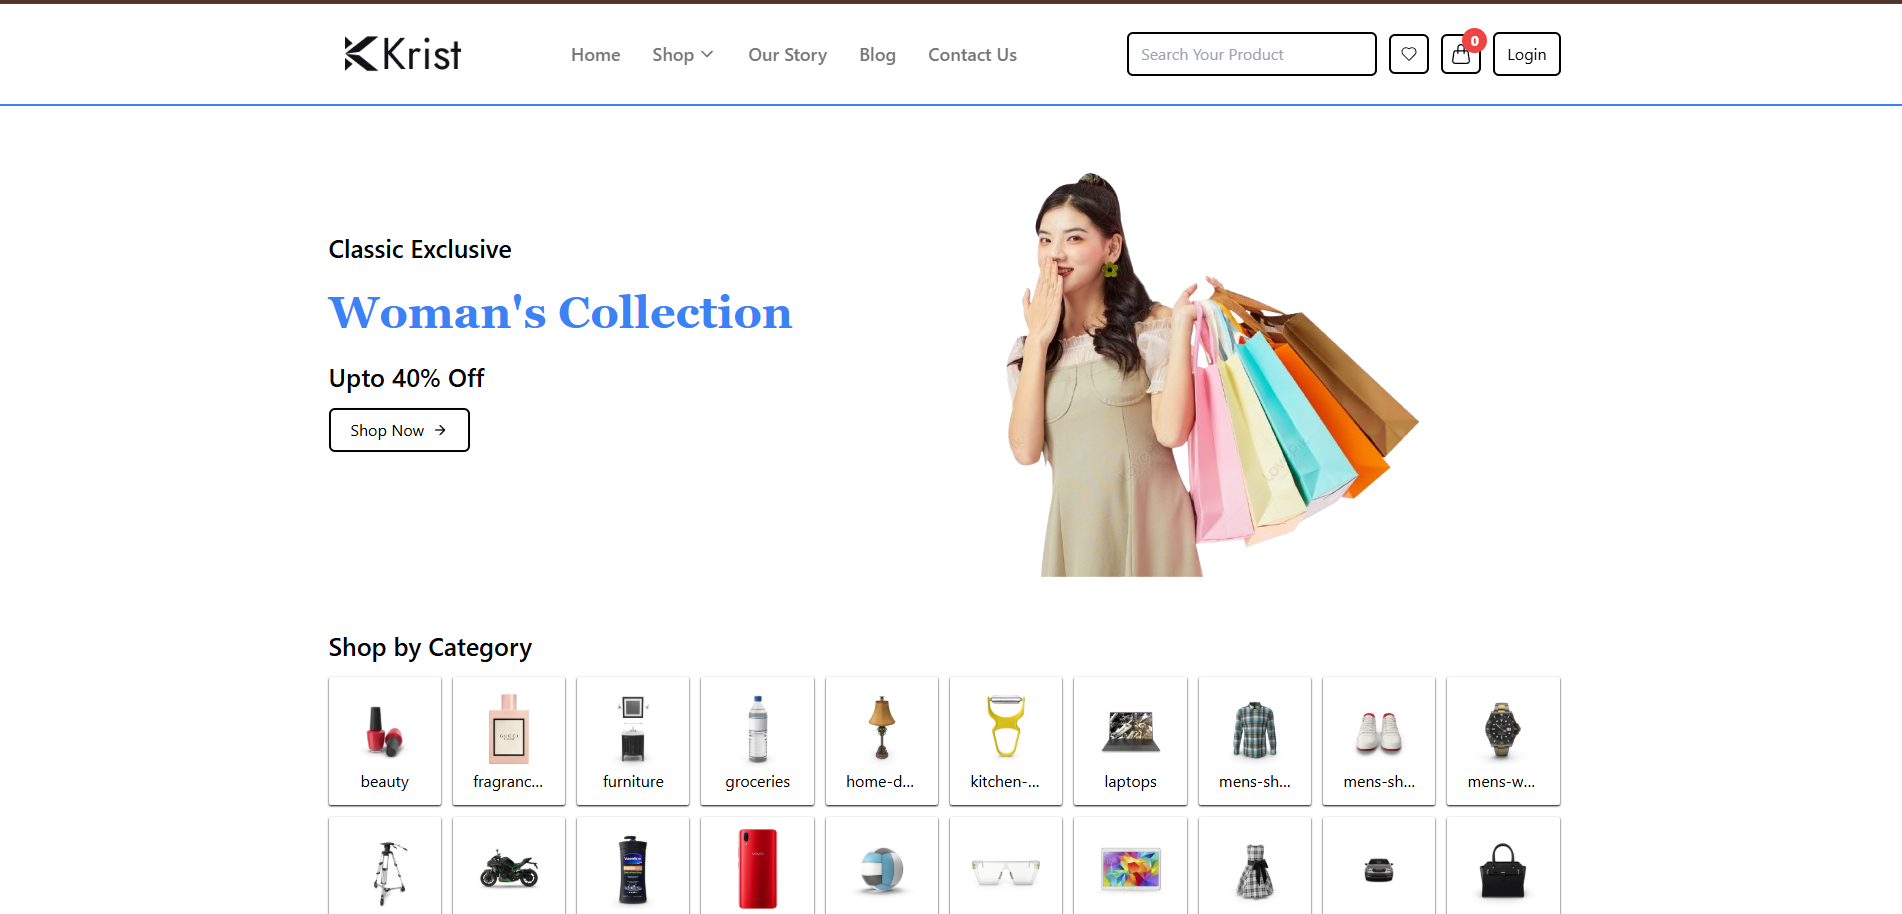
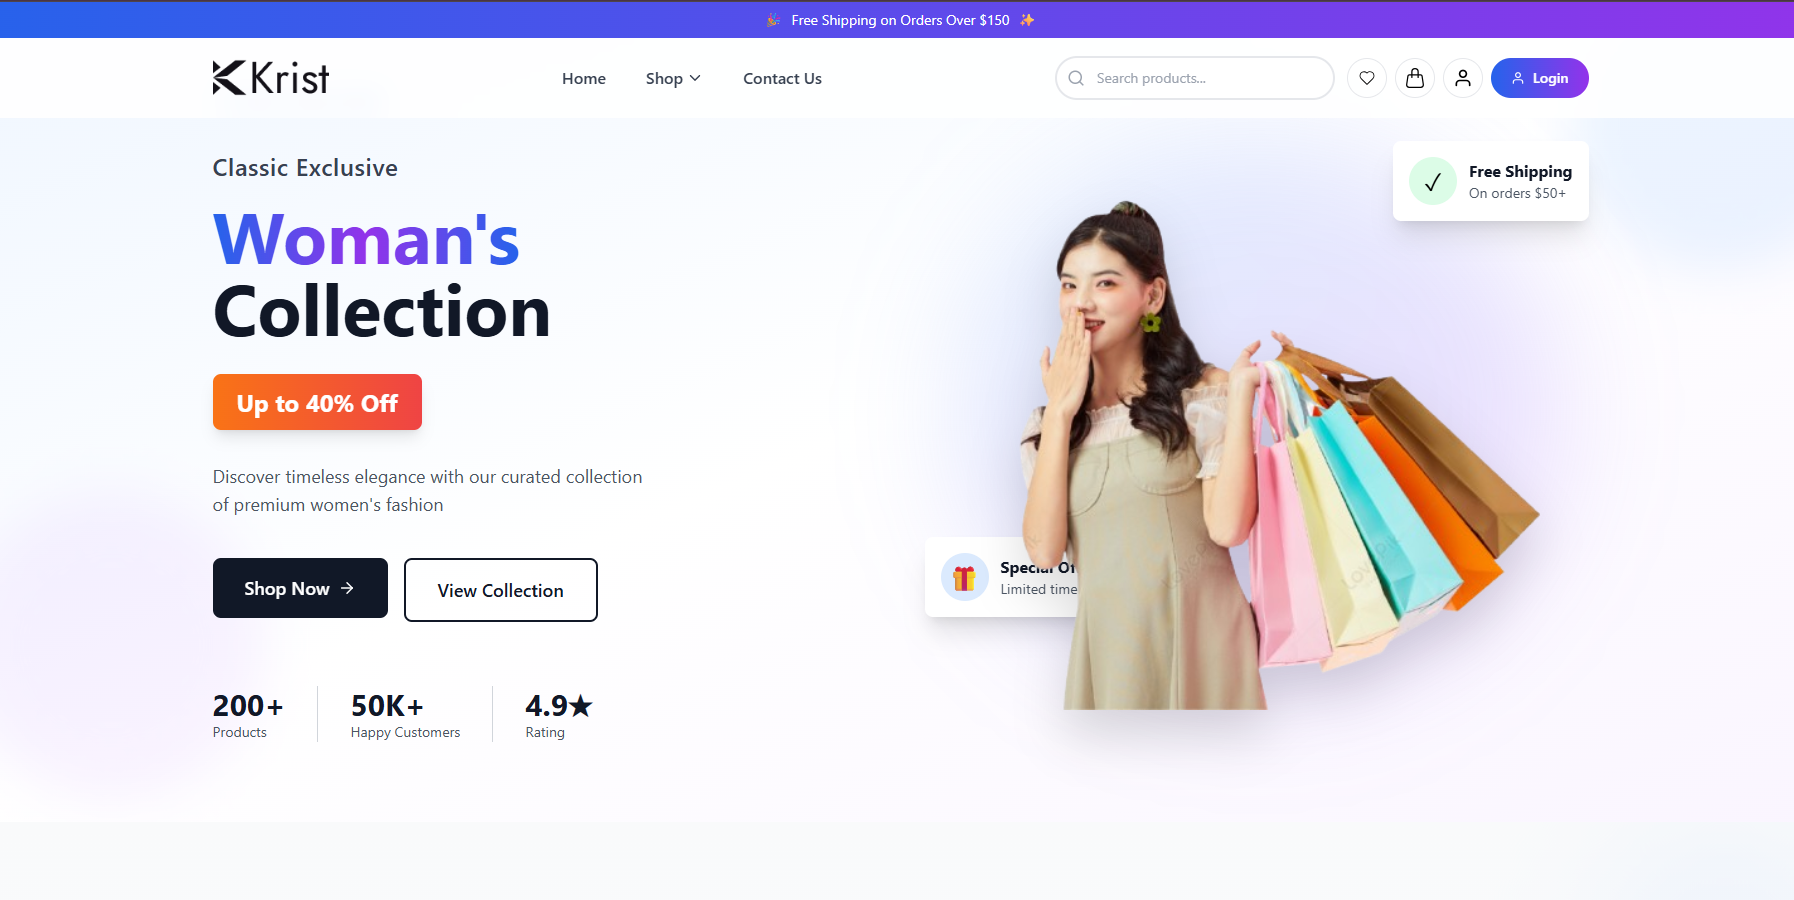
fixing error and changed cover image

diff --git a/index.html b/index.html
@@ -983,7 +983,7 @@
           <!-- Custom Code 2 -->
           <div class="swiper-slide project-card" data-category="custom">
             <div class="project-image">
-              <img src="/Image/eCommerce-Website-Features-1920-x-1080.jpg" alt="Exclusive Ecommerce">
+              <img src="/Image/Exclusive_Ecommerce.png" alt="Exclusive Ecommerce">
               <div class="project-overlay">
                 <div class="project-links">
                   <a href="https://exclusive-ecommerce-project.netlify.app/" class="project-link" target="_blank"
@@ -1013,10 +1013,10 @@
           <!-- Custom Code 3 -->
           <div class="swiper-slide project-card" data-category="custom">
             <div class="project-image">
-              <img src="/Image/woody.jpg" alt="Woody Website">
+              <img src="/Image/WoddyCover.png" alt="Woody Website">
               <div class="project-overlay">
                 <div class="project-links">
-                  <a href="https://responsive-woddy-website.netlify.app" class="project-link" target="_blank"
+                  <a href="https://woodyagency.netlify.app/" class="project-link" target="_blank"
                     title="View Live">
                     <svg fill="none" stroke="currentColor" viewBox="0 0 24 24">
                       <path stroke-linecap="round" stroke-linejoin="round" stroke-width="2"
